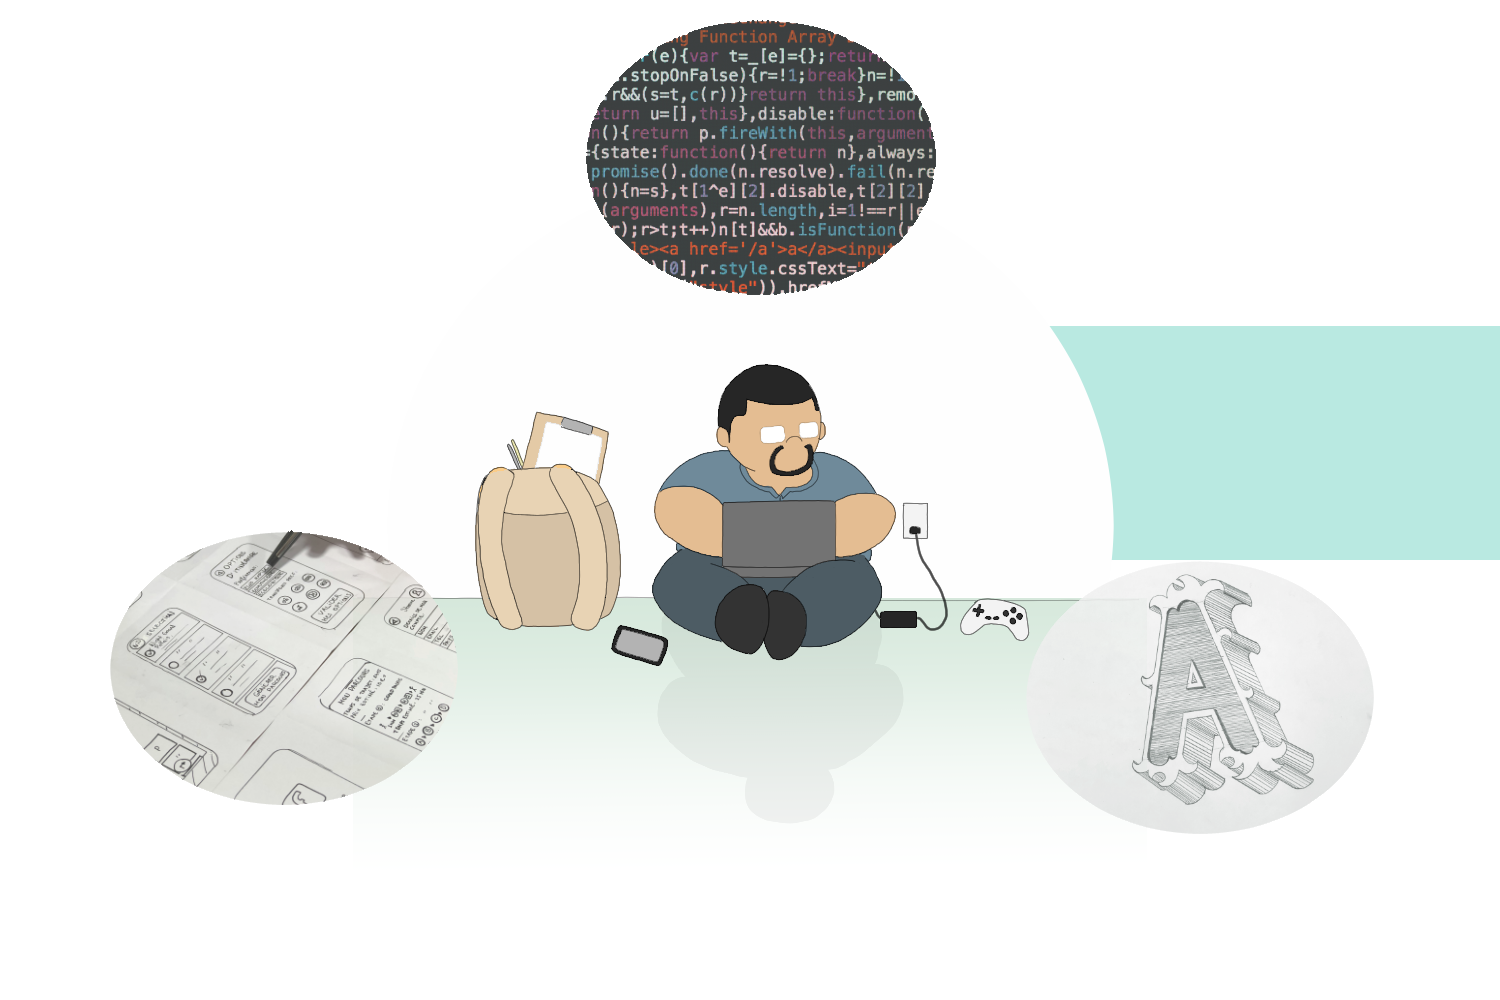
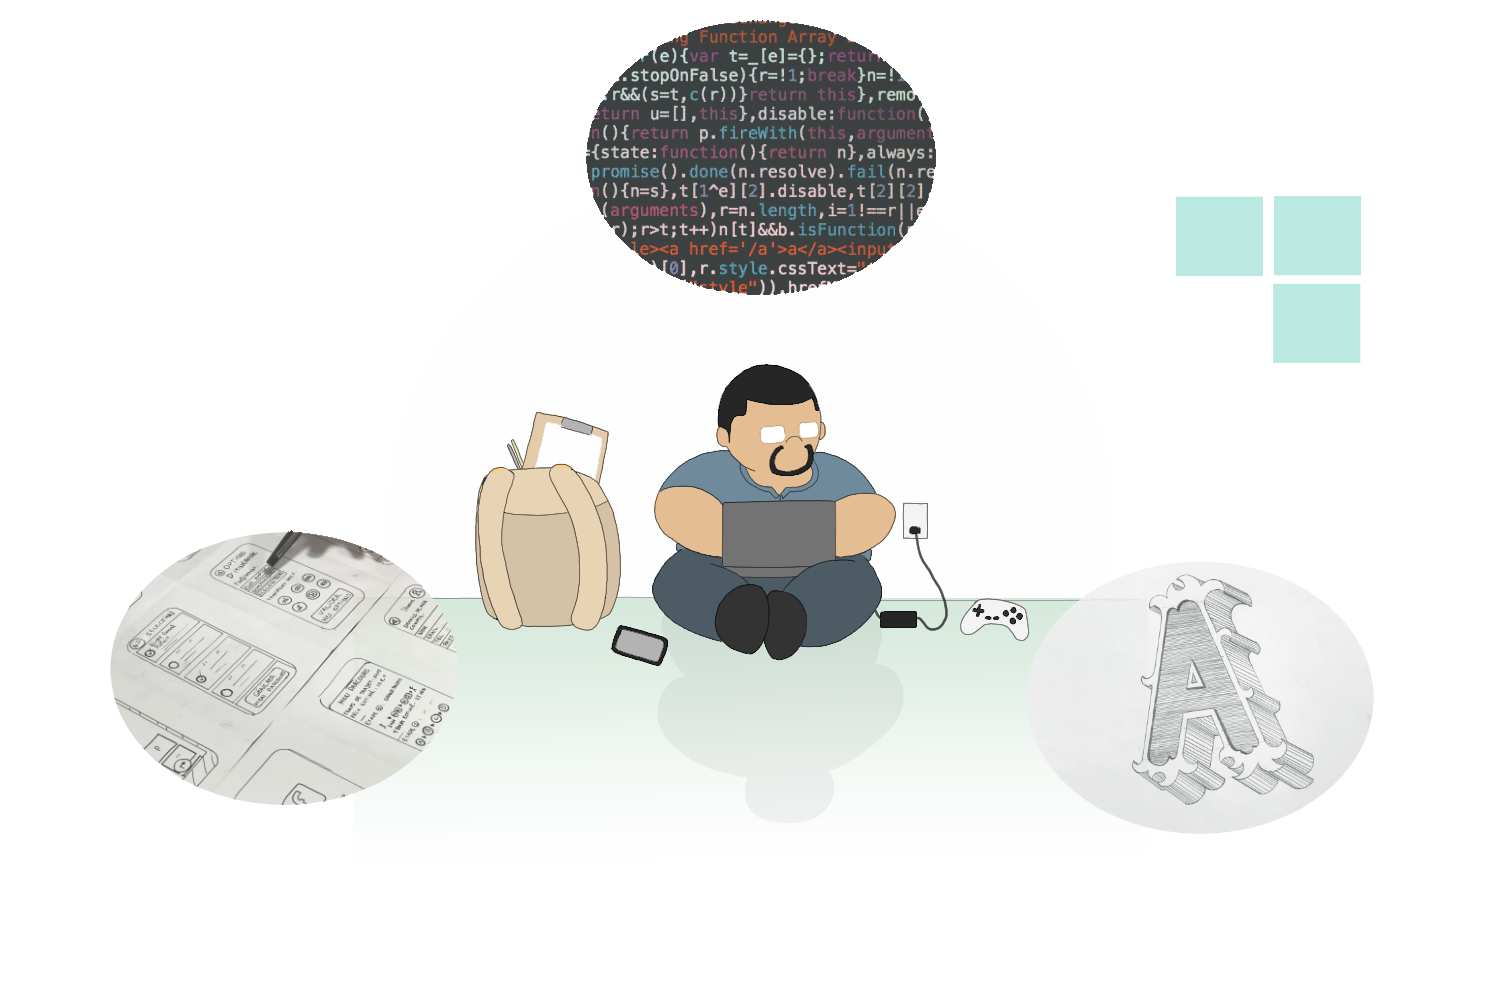
Revised styling for mobile and tablet view

Changed region(s): [[0.7053, 0.186, 1.0, 0.558]]

diff --git a/src/components/partials/Footer.vue b/src/components/partials/Footer.vue
@@ -23,23 +23,23 @@ export default {
               <v-icon class="mr-2 mt-0" icon="mdi-email" variant="text"  />
               <span v-if="!$vuetify.display.xs">kmjr07@yahoo.com</span>
           </span>
-          <span class="footer-link mx-lg-8 mb-2" @click="openWindow('mailto:keljr021@gmail.com')" title="Email keljr021@gmail.com">
+          <span class="footer-link mx-md-8 mx-lg-8 mb-2" @click="openWindow('mailto:keljr021@gmail.com')" title="Email keljr021@gmail.com">
               <v-icon class="mr-2 mt-0" icon="mdi-email" variant="text"  />
               <span v-if="!$vuetify.display.xs">keljr021@gmail.com</span>
           </span>
-          <span class="footer-link mx-lg-8 mb-2" @click="openWindow('https://www.linkedin.com/in/kelvin-morrisey-jr-514360a7/')" title="View LinkedIn Profile">
+          <span class="footer-link mx-md-8 mx-lg-8 mb-2" @click="openWindow('https://www.linkedin.com/in/kelvin-morrisey-jr-514360a7/')" title="View LinkedIn Profile">
             <img v-if="$route.name === 'home'" class="footer-icon" src="../../assets/LI-white.png" alt="LinkedIn link" />
             <img v-else class="footer-icon" src="../../assets/LI-black.png" alt="LinkedIn link" />
           </span>
-          <span class="footer-link mx-lg-8 mb-2" @click="openWindow('https://github.com/keljr021')" title="View GitHub Profile">
+          <span class="footer-link mx-md-8 mx-lg-8 mb-2" @click="openWindow('https://github.com/keljr021')" title="View GitHub Profile">
             <img v-if="$route.name === 'home'" class="footer-icon" src="../../assets/github-white.png" alt="GitHub link" />
             <img v-else class="footer-icon" src="../../assets/github-black.png" alt="GitHub link" />
           </span>
-          <span class="footer-link mx-lg-8 mb-2" @click="openWindow('https://dribbble.com/keljr021')" title="View Dribbble Profile">
+          <span class="footer-link mx-md-8 mx-lg-8 mb-2" @click="openWindow('https://dribbble.com/keljr021')" title="View Dribbble Profile">
             <img v-if="$route.name === 'home'" class="footer-icon" src="../../assets/dr-logo-white.png" alt="Dribbble link" />
             <img v-else class="footer-icon" src="../../assets/dr-logo.png" alt="Behance link" />
           </span>
-          <span class="footer-link mx-lg-8 mb-2" @click="openWindow('https://www.behance.net/kelvin-m')" title="View Behance Profile">
+          <span class="footer-link mx-md-8 mx-lg-8 mb-2" @click="openWindow('https://www.behance.net/kelvin-m')" title="View Behance Profile">
             <img v-if="$route.name === 'home'" class="footer-icon" src="../../assets/be-logo-alt2-white.png" alt="Behance link" />
             <img v-else class="footer-icon" src="../../assets/be-logo-alt2.png" alt="Behance link" />
           </span>
@@ -78,7 +78,6 @@ export default {
 @media all and (min-width: 768px) and (max-width: 1023px) {
 
   .footer-link {
-    width: calc(25% - 80px);
     margin: 10px 40px;
     text-align: center;
   }

diff --git a/src/components/Cta.vue b/src/components/Cta.vue
@@ -30,14 +30,16 @@ export default {
 
 <template>
     <v-container fluid class="cta">
-        <img class="cta-bg" src="../assets/cta/background-1060405_1280.png" />
+        <div class="cta-bg">
+            <img class="cta-bg-image" src="../assets/cta/background-1060405_1280.png" />
+        </div>
         <v-row>
             <v-col cols="12" xs="12" sm="12" md="6">
                 <h1 class="cta-title">Hi my name's <br v-if="$vuetify.display.xs" /><b>Kelvin Morrisey Jr.</b></h1>
                 <CtaText @scrollTo="scrollTo" />
             </v-col>
-            <v-col cols="12" xs="12" sm="12" md="6" class="text-right pa-0">
-                <img alt="placeholder photo" height="440" class="cta-image mx-0" src="../assets/cta-self-drawing.png" />
+            <v-col cols="12" xs="12" sm="12" md="6" class="text-xs-center text-sm-center text-md-right text-right pa-0">
+                <img alt="drawing of me and my interests" class="cta-image mx-0" src="../assets/cta-self-drawing.png" />
             </v-col>
         </v-row>
         
@@ -50,7 +52,8 @@ export default {
     position: relative;
     height: 100%;
     padding: 150px 0 100px 50px;
-    background: #17174f;
+    background-attachment: fixed;
+    background-repeat: no-repeat;
     -webkit-border-radius: 0;
     border-radius: 0;
     z-index: 0;
@@ -62,7 +65,23 @@ export default {
     right: 0;
     bottom: 0;
     width: 100%;
+    height: 100%;
     object-fit: contain;
+    overflow: hidden;
+    padding: 0;
+    margin: 0;
+    background: #17174f;
+    z-index: -1;
+
+}
+
+.cta-bg-image {
+    position: relative;
+    width: 100%;
+    height: 100%;
+    padding: 0;
+    margin: 0;
+    object-fit: cover;
     overflow: hidden;
     opacity: 0.35;
     z-index: -1;
@@ -83,6 +102,14 @@ export default {
 
 .cta-image {
     opacity: 0.7;
+    height: 440px;
+}
+
+@media all and (min-width: 768px) and (max-width: 1023px) {
+    .cta-bg-image {
+        width: 100%;
+        height: 100vh;
+    }
 }
 
 @media all and (max-width: 768px) {
@@ -90,8 +117,18 @@ export default {
         padding: 20px;
     }
 
+    .cta-bg-image {
+        width: initial;
+        height: 100vh;
+    }
+
     .cta-logo {
         display: none;
+    }
+
+    .cta-image {
+        width: 100%;
+        height: initial;
     }
 }
 </style>

diff --git a/src/components/Navbar.vue b/src/components/Navbar.vue
@@ -39,7 +39,7 @@ export default {
 
 <template>
     <!-- Mobile Navigation -->
-    <div class="nav show w-100 px-4 py-2" v-if="$vuetify.display.smAndDown">
+    <div class="nav show w-100 px-4 py-2" :class="{'home': onHome }" v-if="$vuetify.display.smAndDown">
         <v-row class="align-center justify-space-between">
             <v-col cols="8" class="nav-logo" @click="$router.push({ name: 'home' })">
                 <img v-if="onHome" class="mt-2 mx-1 home" src="../assets/km-icon-white.svg" alt="Kelvin Morrisey Jr" />
